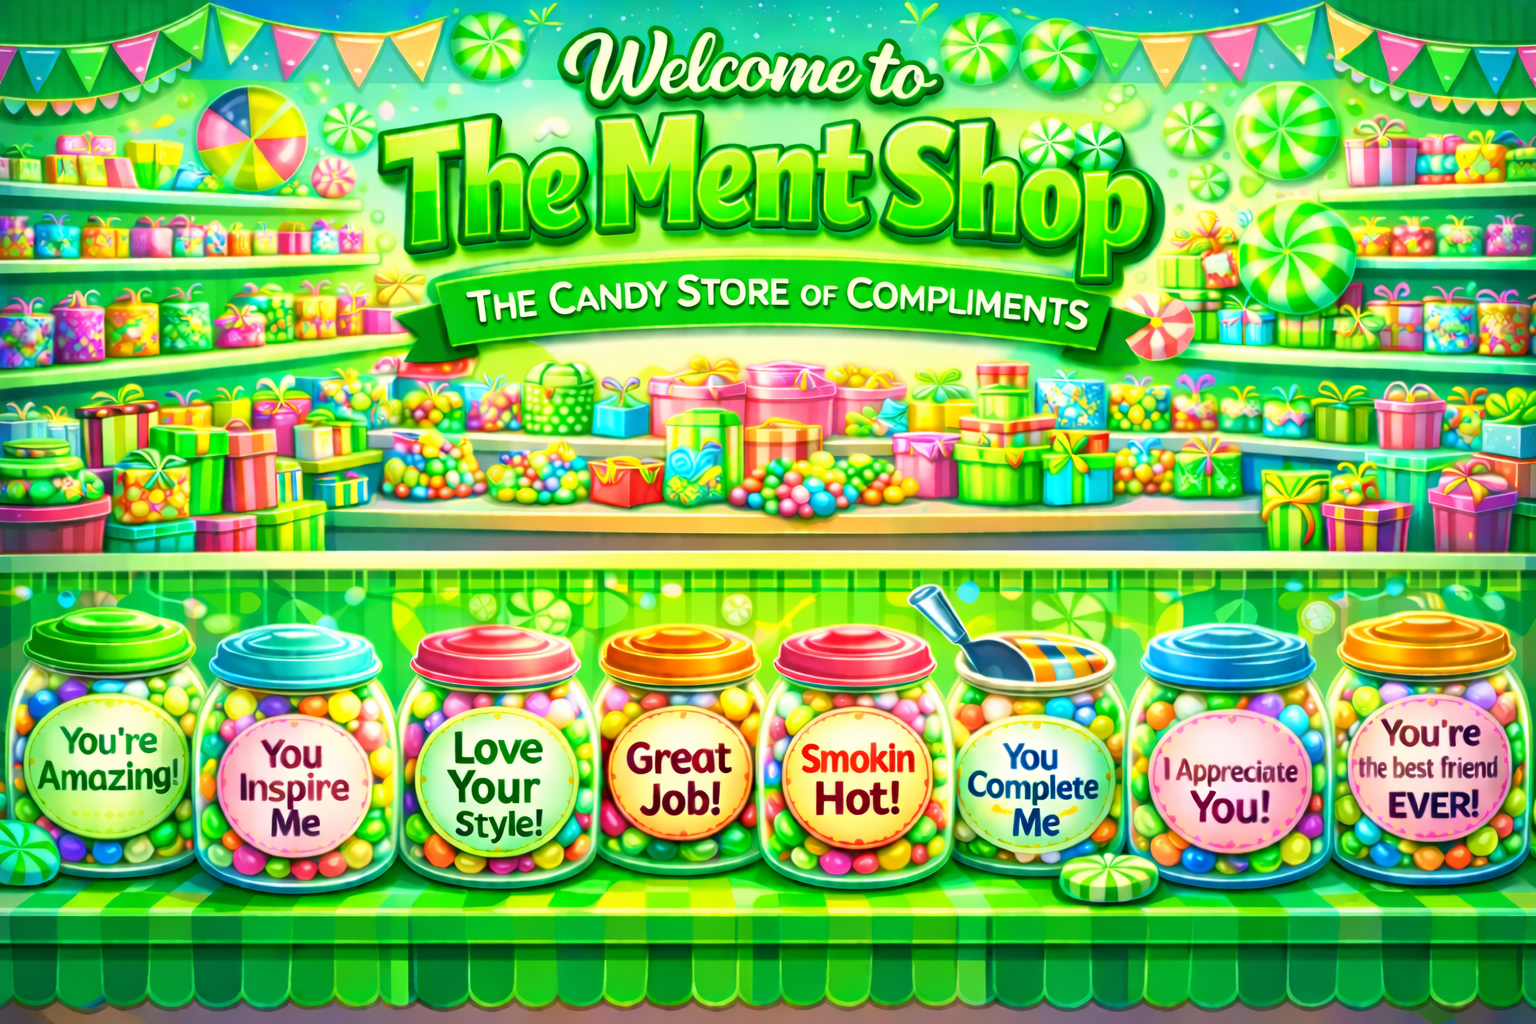
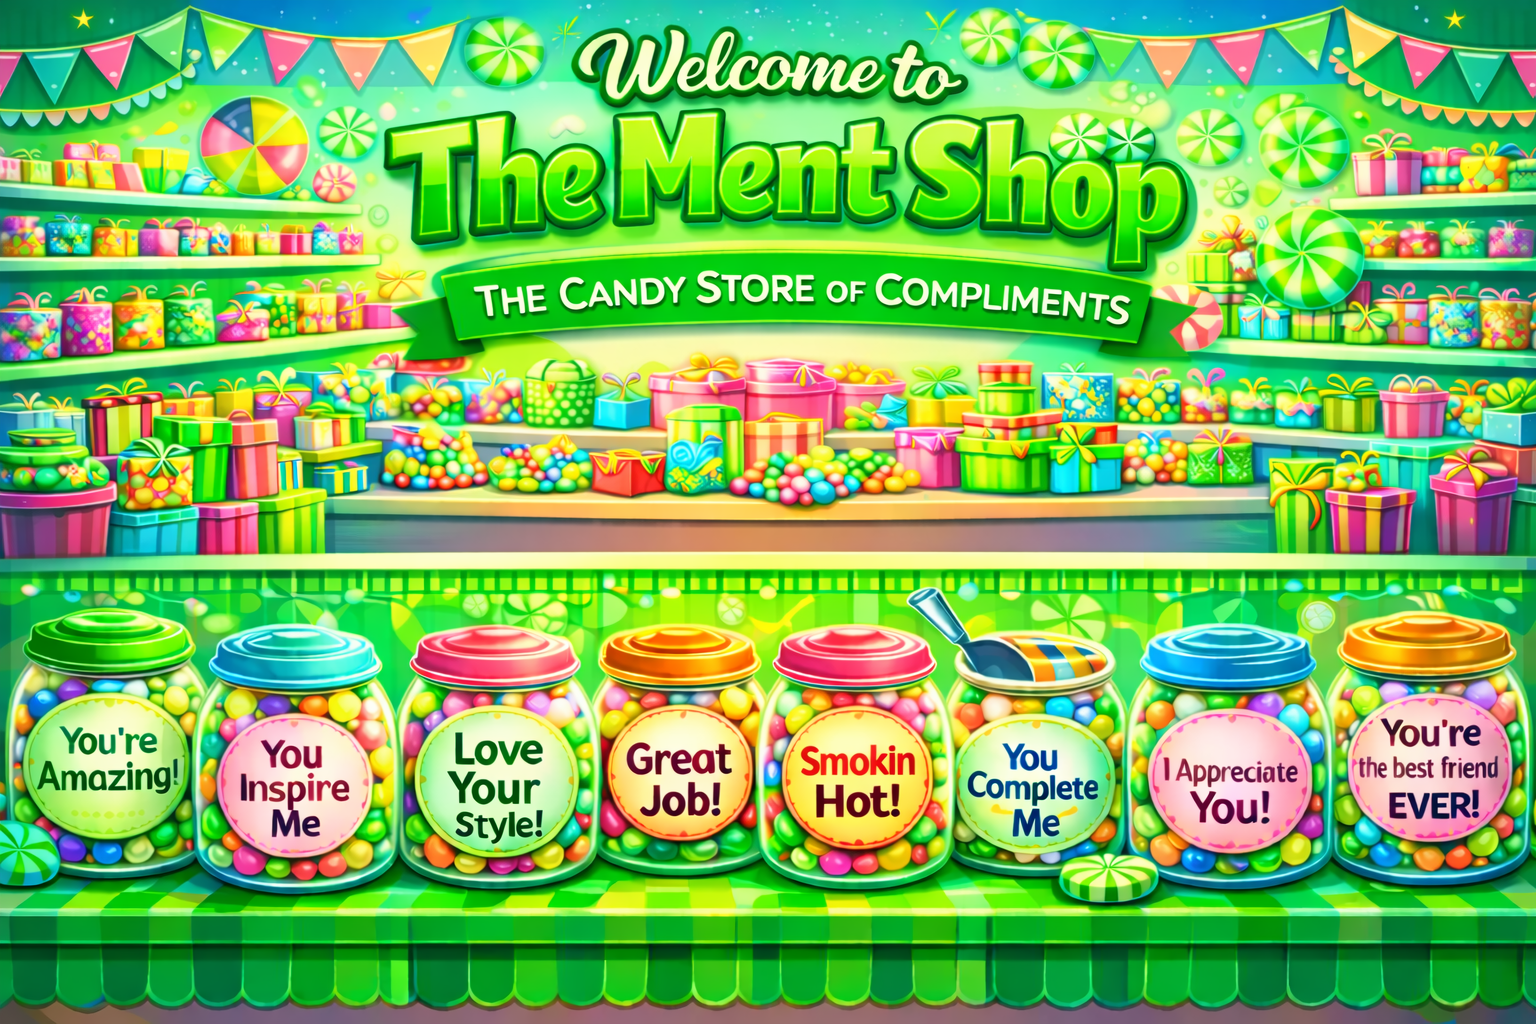
Changes

diff --git a/src/pages/Index.tsx b/src/pages/Index.tsx
@@ -43,7 +43,7 @@ const Index = () => {
         <img 
           src={heroBanner} 
           alt="Welcome to The Ment Shop - The Candy Store of Compliments" 
-          className="w-full max-h-[200px] object-contain object-center"
+          className="w-full object-cover object-center"
         />
       </div>
       
